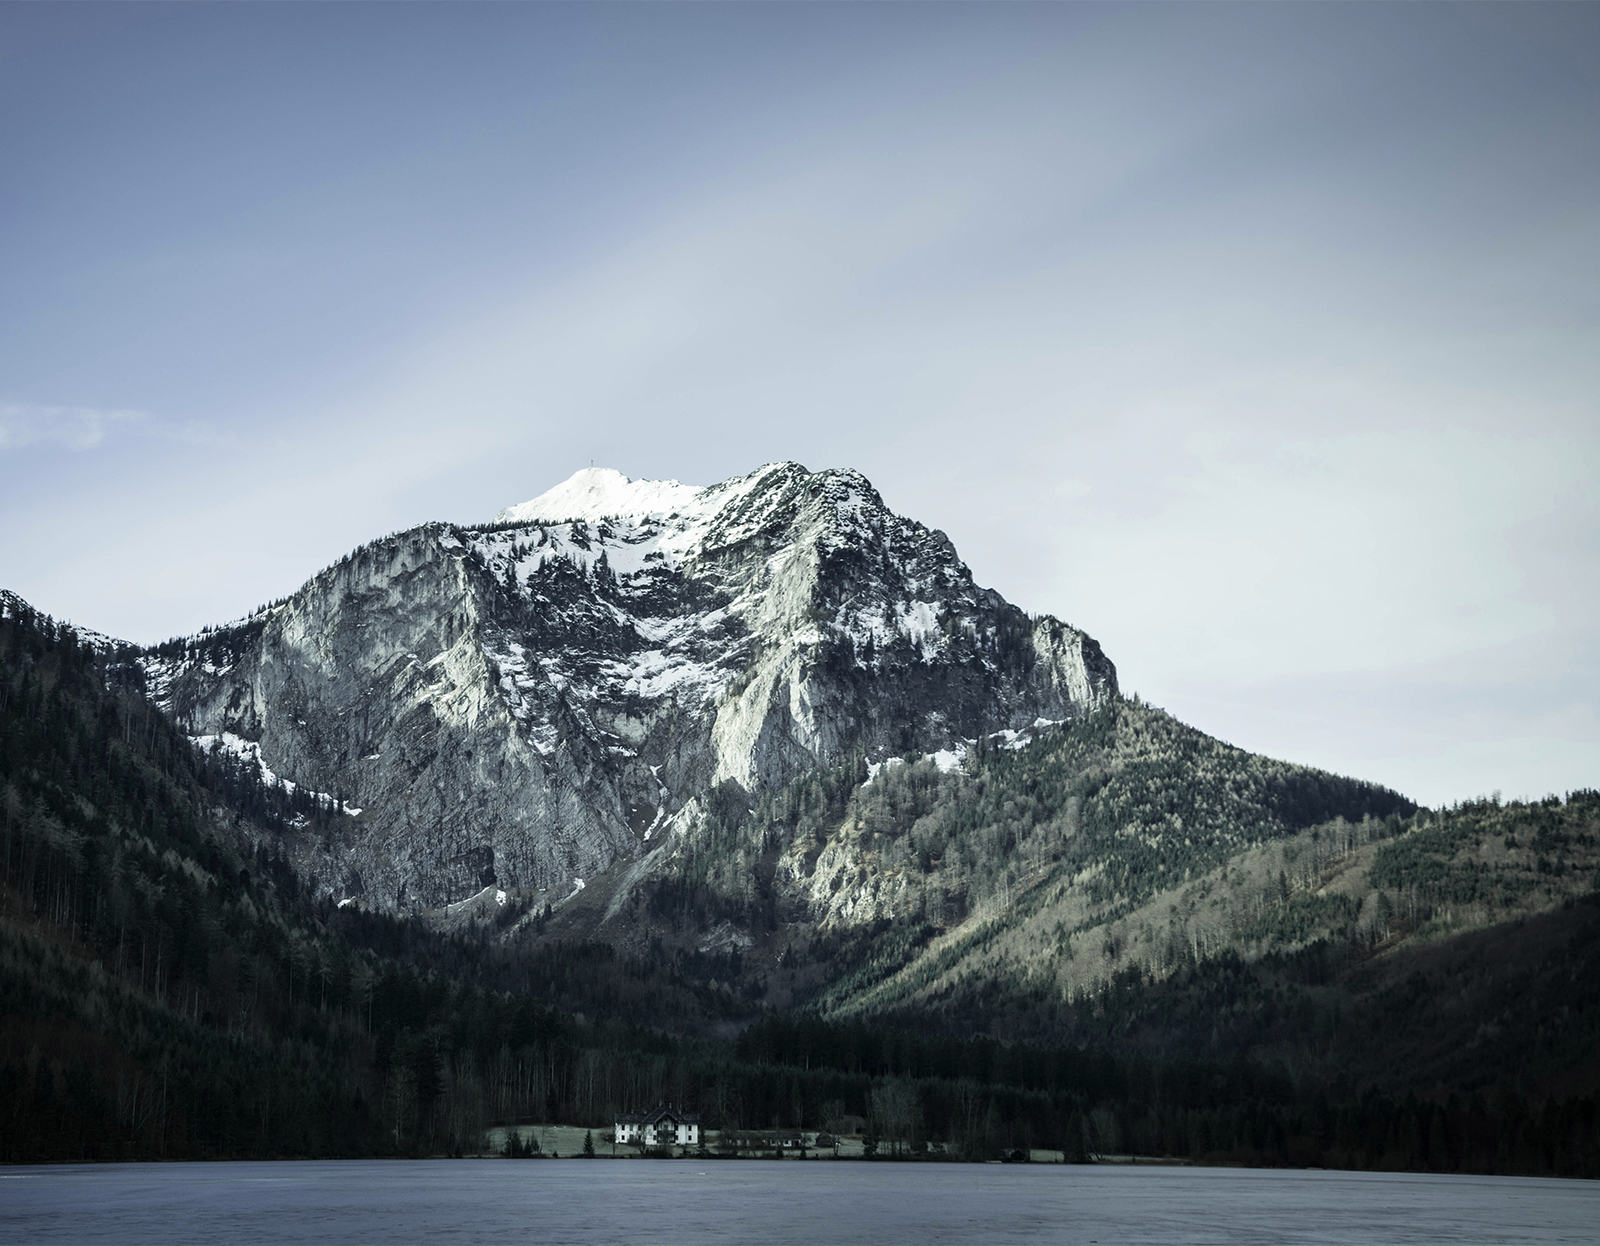
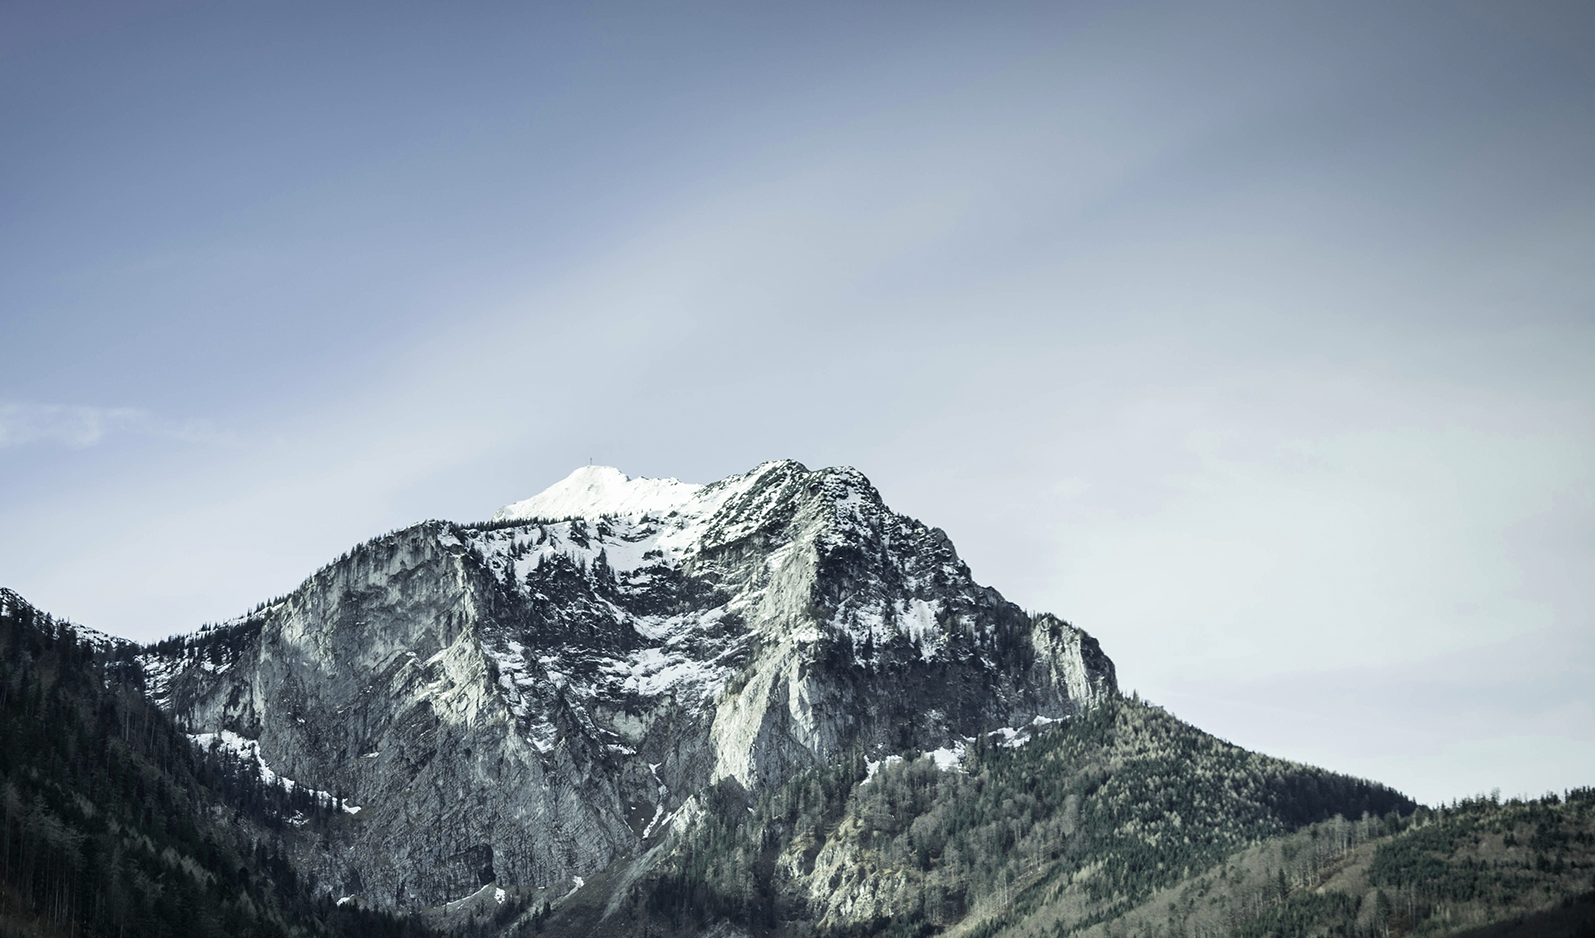
edits

diff --git a/styles.scss b/styles.scss
@@ -125,7 +125,7 @@ nav {
 .container {
     margin: 0px;
     width: 100%;
-    padding: 30px 100px;
+    padding: 50px 100px;
     background: rgba(65, 79, 107, 0.85);
     position: absolute;
     bottom: 0px;
@@ -137,7 +137,7 @@ nav {
 }
 
 .carousel-indicators {
-    bottom: -35px !important;
+    bottom: -48px !important;
 }
 
 .carousel-inner .active.left { left: -100%; }

diff --git a/styles.css b/styles.css
@@ -118,7 +118,7 @@ nav {
 .container {
   margin: 0px;
   width: 100%;
-  padding: 30px 100px;
+  padding: 50px 100px;
   background: rgba(65, 79, 107, 0.85);
   position: absolute;
   bottom: 0px;
@@ -130,7 +130,7 @@ nav {
 }
 
 .carousel-indicators {
-  bottom: -35px !important;
+  bottom: -48px !important;
 }
 
 .carousel-inner .active.left {

diff --git a/index.html b/index.html
@@ -11,7 +11,7 @@
 </head>
 <body>
     <div>
-        <img src="./images/top image cropped.png" alt="">
+        <img src="./images/top image.png" alt="">
         <nav>
             <img src="./images/Logo.png" alt="">
             <div class="nav-items">
